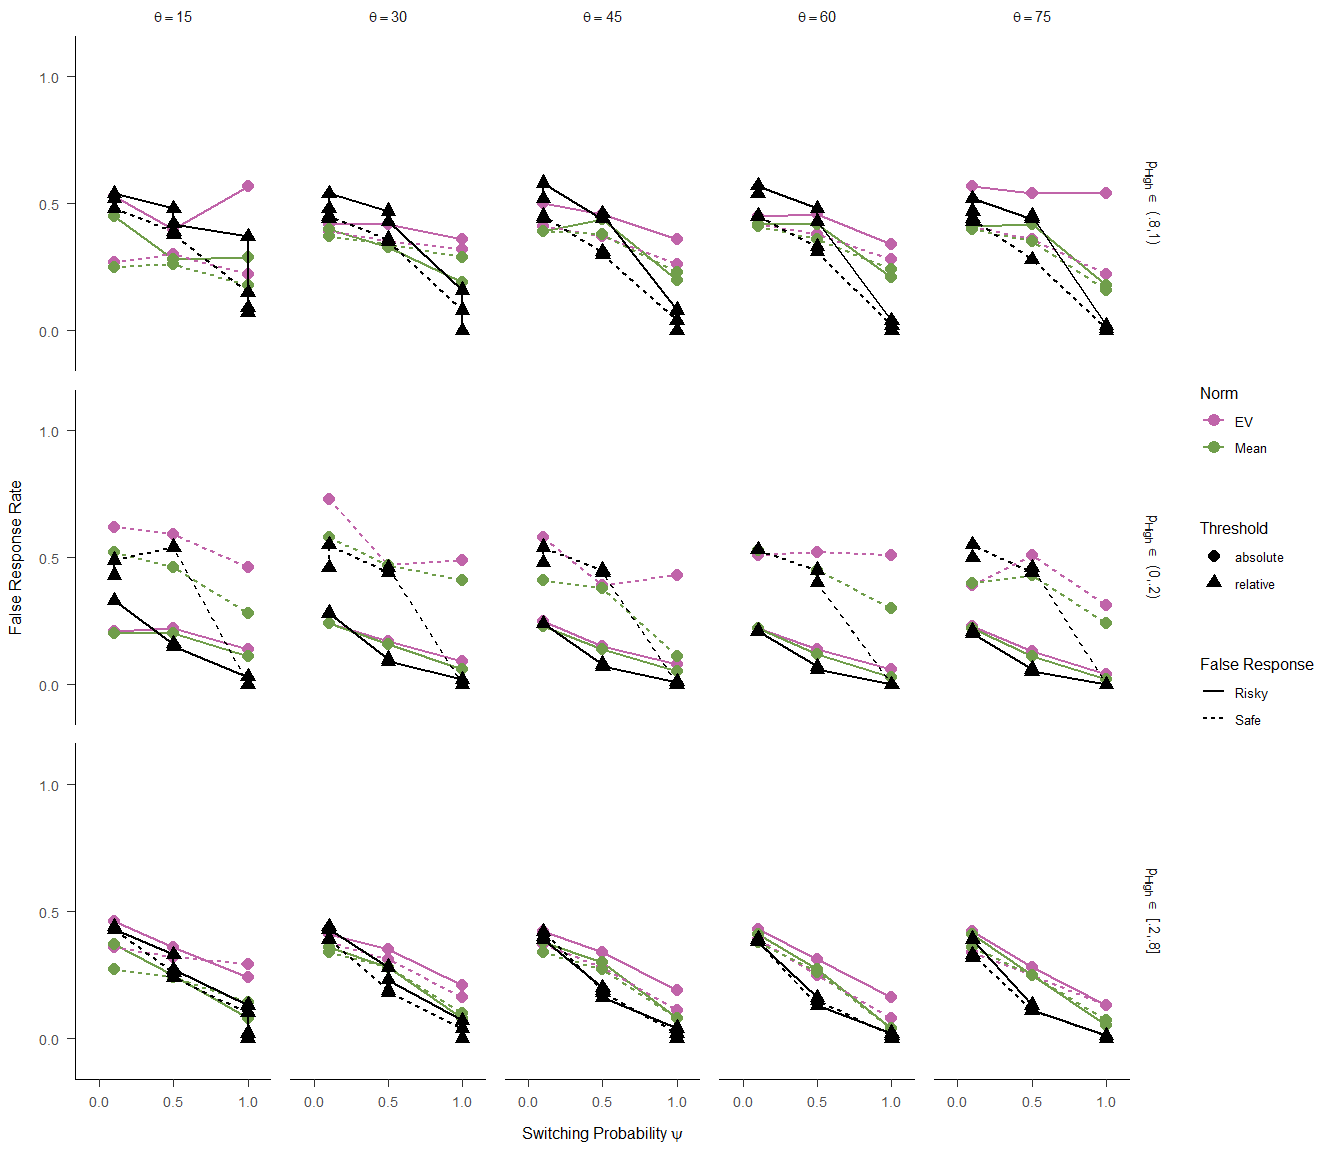
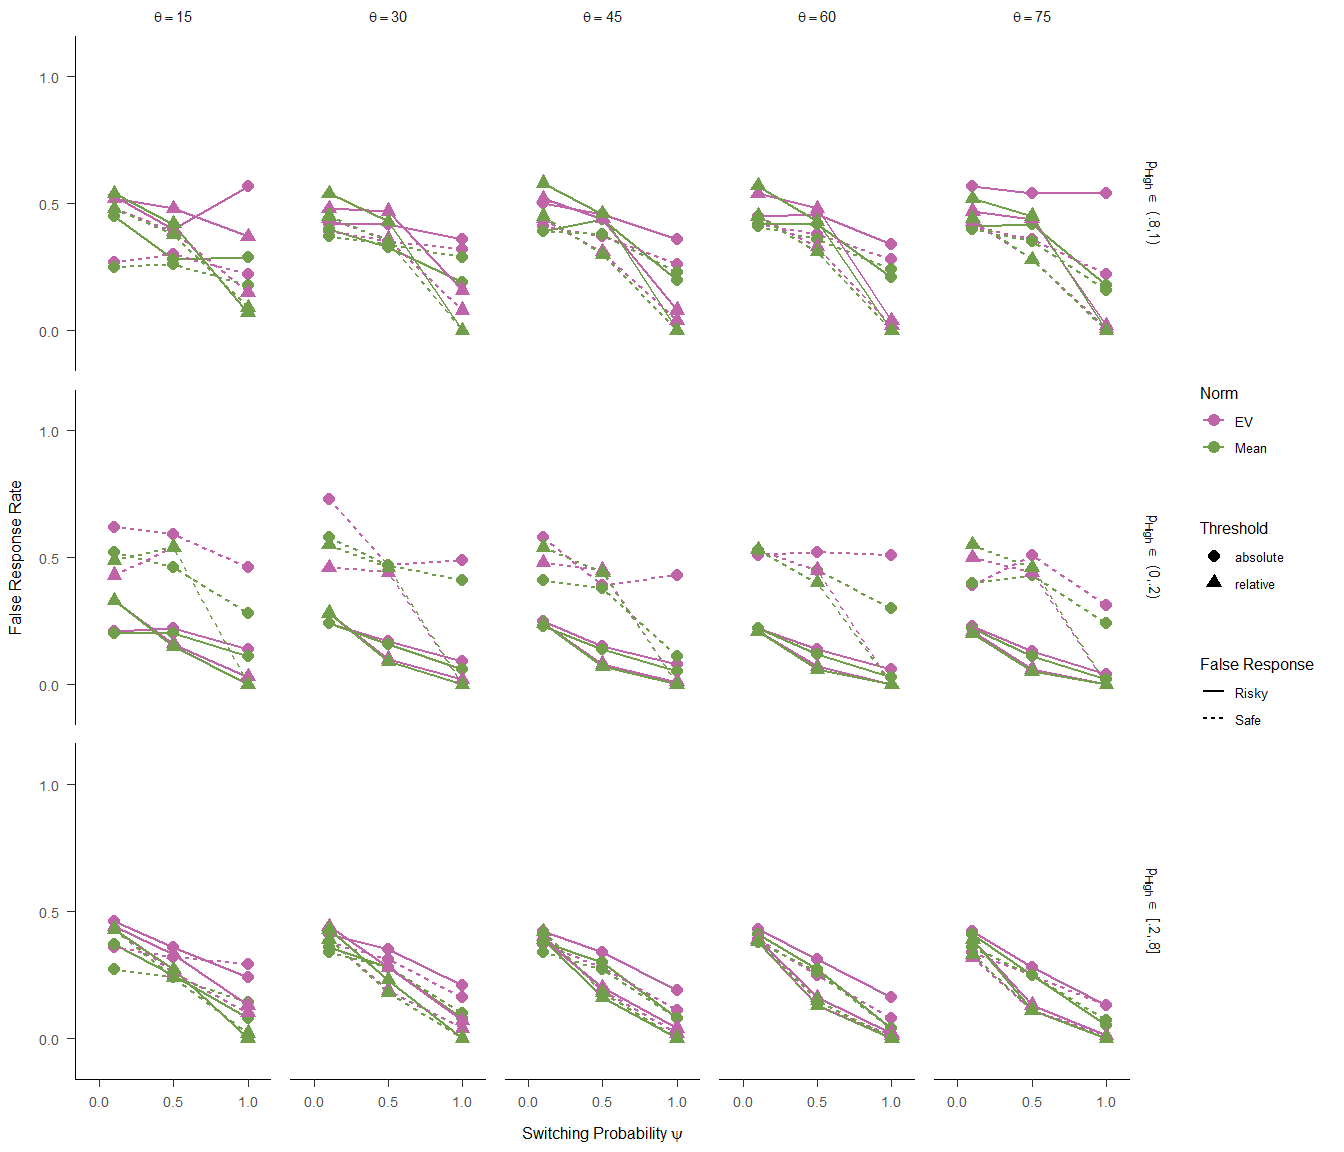
add color coding in choice rates summary; minor changes in chunk options

diff --git a/supplements/data-analysis-report.md b/supplements/data-analysis-report.md
@@ -238,6 +238,8 @@ round_n_median %>%
   theme_apa
 ```
 
+![](data-analysis-report_files/figure-gfm/round-level%20n-1.png)<!-- -->
+
 -   The **round-level sample sizes decrease with increasing switching
     probabilities**.
 
@@ -286,6 +288,8 @@ round_ep_median %>%
 
 ggsave(file = "supplements/data-analysis-report_files/figure-high-resolution/round_ep_roundwise.png", width = 14, height = 12)
 ```
+
+![](data-analysis-report_files/figure-gfm/round-level%20frequencies-1.png)<!-- -->
 
 -   For $\theta = 1$—i.e., when only one mean comparison is carried
     out—the relative frequencies sampled on the round level are
@@ -587,8 +591,8 @@ fr_rates %>%
   scale_y_continuous(limits = c(-.1, 1.1), breaks = seq(0, 1, .5)) +
   geom_line(aes(linetype = type, color = norm), size = 1) + 
   geom_point(aes(shape = threshold, color = norm), size = 4) +
-  geom_line(data = fr_rates_summary_r, aes(linetype = type), size = 1) + 
-  geom_point(data = fr_rates_summary_r, aes(shape = threshold), size = 4) +
+  geom_line(data = fr_rates_summary_r, aes(linetype = type, color = norm), size = 1) + 
+  geom_point(data = fr_rates_summary_r, aes(shape = threshold, color = norm), size = 4) +
   scale_color_scico_d(palette = "bam", begin = .2, end = .8) + 
   theme_apa()
 ```
